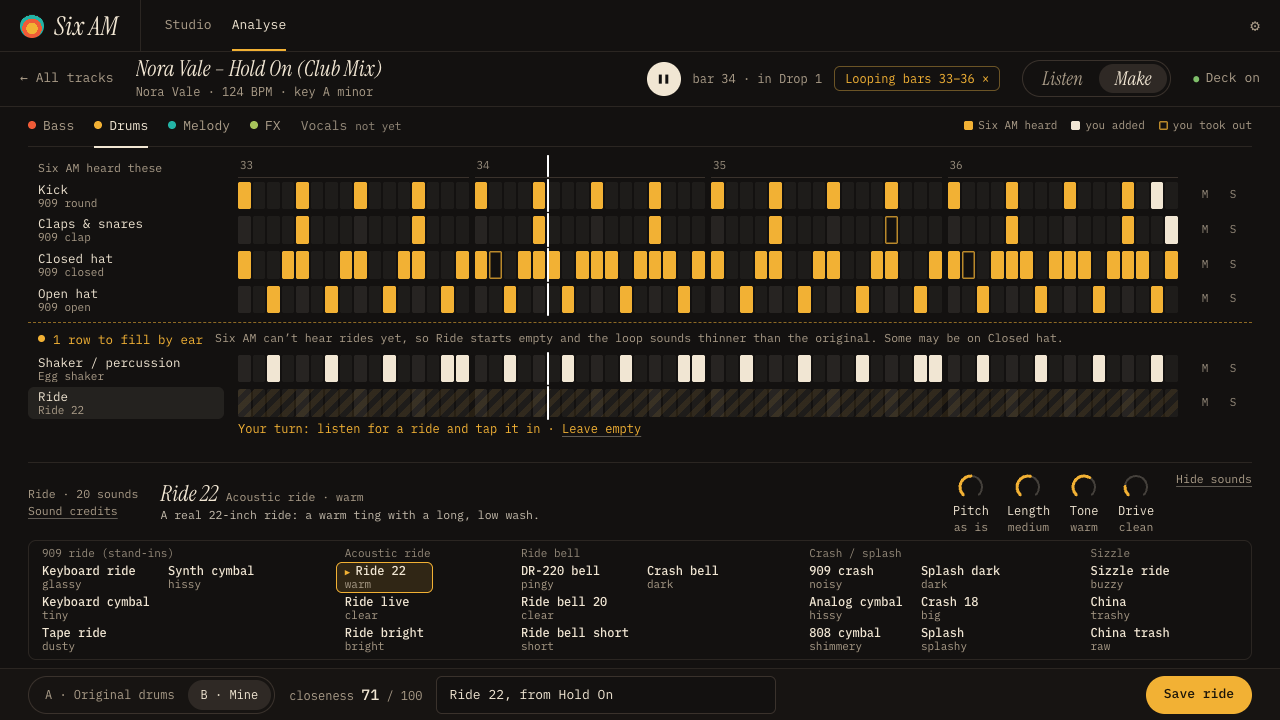
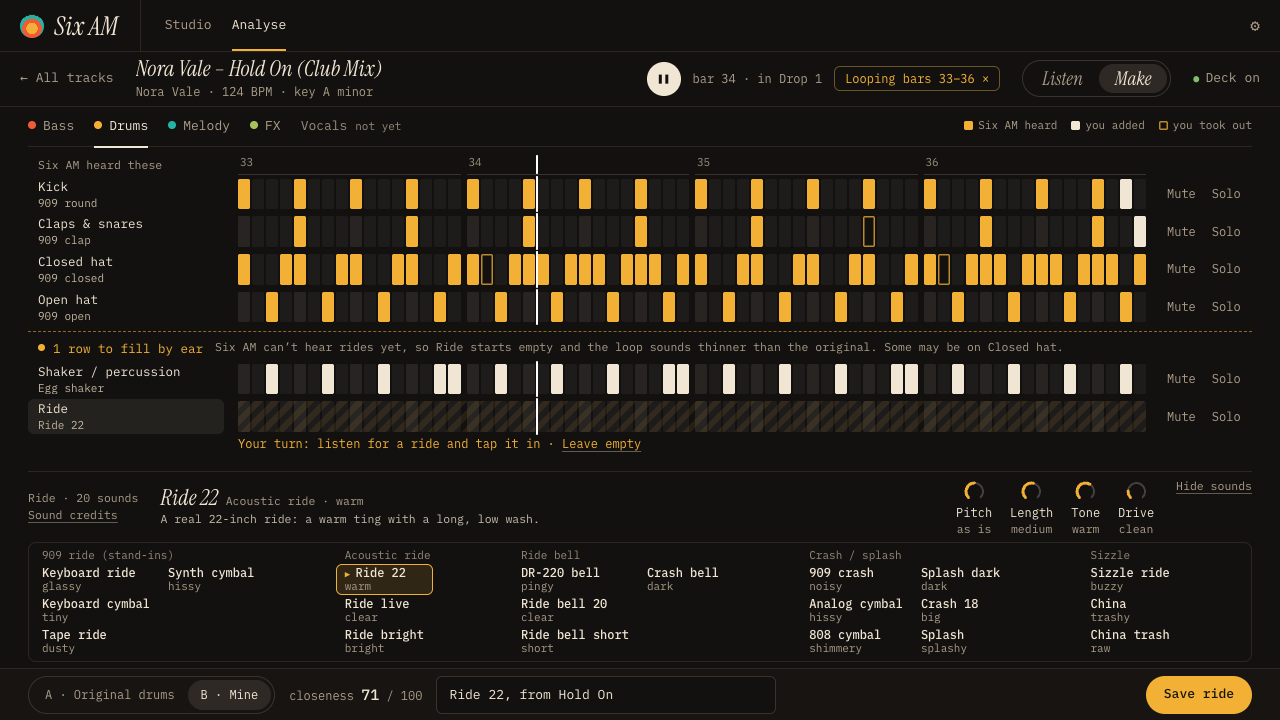
07 Six AM Phase 7: design round 3b, the critic's six gaps on the final direction

diff --git a/docs/products/07-six-am/design/p7-final/prototype.html b/docs/products/07-six-am/design/p7-final/prototype.html
@@ -68,11 +68,11 @@ button:focus-visible, input:focus-visible, a:focus-visible { outline: 2px solid 
 .knobs { display: flex; gap: 18px; align-items: flex-start; flex: none; }
 .knob { display: grid; justify-items: center; gap: 1px; } .knob span { font-size: 12px; } .knob small { color: var(--mute); font-size: 11.5px; }
 /* drum rows: one grid, row names once on the left */
-.rows { display: grid; grid-template-columns: 196px minmax(0,1fr) 60px; column-gap: 14px; row-gap: 6px; padding-top: 10px; flex: none; }
+.rows { display: grid; grid-template-columns: 196px minmax(0,1fr) 92px; column-gap: 14px; row-gap: 6px; padding-top: 10px; flex: none; }
 .rows.fill { flex: 1; row-gap: 10px; padding-bottom: 12px; }
-.rname { grid-column: 1; display: flex; flex-direction: column; min-width: 0; padding: 4px 10px; border-radius: 6px; align-self: center; text-align: left; }
+.rname { grid-column: 1; display: flex; flex-direction: column; gap: 3px; min-width: 0; padding: 4px 10px; border-radius: 6px; align-self: center; text-align: left; }
 .rname span { line-height: 1.3; white-space: nowrap; overflow: hidden; text-overflow: ellipsis; }
-.rname small { color: var(--mute); font-size: 11.5px; line-height: 1.3; white-space: nowrap; overflow: hidden; text-overflow: ellipsis; }
+.rname small { color: #c2b49e; font-size: 11.5px; line-height: 1.3; white-space: nowrap; overflow: hidden; text-overflow: ellipsis; }
 .rname[aria-pressed="true"] { background: rgba(241,230,211,.08); }
 @media (hover:hover) and (pointer:fine) { .rname[aria-pressed="false"]:hover { background: rgba(241,230,211,.04); } }
 .ms { grid-column: 3; display: flex; gap: 2px; align-self: center; }
@@ -97,7 +97,7 @@ button:focus-visible, input:focus-visible, a:focus-visible { outline: 2px solid 
 .ph { position: absolute; top: -3px; bottom: -3px; width: 2px; background: #fff; pointer-events: none; border-radius: 1px; }
 .legend { display: flex; gap: 14px; font-size: 11px; color: var(--mute); white-space: nowrap; }
 .legend i { display: inline-block; width: 9px; height: 9px; border-radius: 2px; margin-right: 5px; vertical-align: -1px; }
-.mbtn { width: 26px; height: 24px; border-radius: 4px; color: var(--dim); font-size: 11px; display: grid; place-items: center; border: 1px solid transparent; flex: none; }
+.mbtn { height: 24px; padding: 0 6px; border-radius: 4px; color: var(--mute); font-size: 12px; display: grid; place-items: center; border: 1px solid transparent; flex: none; }
 .mbtn[aria-pressed="true"] { background: #3a322c; color: var(--ink); }
 @media (hover:hover) and (pointer:fine) { .mbtn:hover { border-color: var(--line2); color: var(--ink); } }
 .hatch { background-image: repeating-linear-gradient(135deg, rgba(242,177,52,.09) 0 6px, transparent 6px 12px); border-radius: 3px; }
@@ -125,12 +125,15 @@ button:focus-visible, input:focus-visible, a:focus-visible { outline: 2px solid 
 .mo button { padding: 0 14px; height: 30px; border-radius: 999px; color: var(--mute); white-space: nowrap; }
 .mo button[aria-pressed="true"] { background: var(--ink); color: var(--bg); }
 .mo button[aria-disabled="true"] { color: var(--dim); opacity: .45; cursor: not-allowed; text-decoration: line-through; text-decoration-color: rgba(149,138,122,.7); }
-.strip { display: flex; gap: 24px; align-items: baseline; justify-content: space-between; padding: 9px 20px; border-bottom: 1px solid var(--line); background: var(--panel); font-size: 12.5px; color: var(--mute); min-width: 0; }
+.strip { display: flex; gap: 24px; align-items: center; justify-content: space-between; height: 36px; padding: 0 20px; white-space: nowrap; overflow: hidden; border-bottom: 1px solid var(--line); background: var(--panel); font-size: 12.5px; color: var(--mute); min-width: 0; }
+.strip.none { background: none; border-bottom-color: transparent; }
+.strip > span { overflow: hidden; text-overflow: ellipsis; min-width: 0; }
 .strip b { color: var(--ink); font-weight: 500; }
 .strip .warn { color: var(--gold); margin-left: auto; text-align: right; }
 .strip .warn button { text-decoration: underline; text-underline-offset: 3px; color: var(--ink); }
 .body { display: grid; min-height: 0; }
-.arr { padding: 0 24px 14px 0; min-width: 0; min-height: 0; display: flex; }
+.arr { padding: 0 24px 14px 0; min-width: 0; min-height: 0; display: flex; overflow-x: auto; overflow-y: hidden; overscroll-behavior-x: contain; }
+.stick { position: sticky; left: 0; z-index: 4; background: var(--bg); }
 .arrin { position: relative; flex: 1; display: grid; grid-template-rows: auto minmax(0,1fr); min-width: 0; }
 .ahead { display: grid; grid-template-columns: var(--lw) minmax(0,1fr); border-bottom: 1px solid var(--line2); }
 .tl { position: relative; min-width: 0; }
@@ -140,22 +143,22 @@ button:focus-visible, input:focus-visible, a:focus-visible { outline: 2px solid 
 .sn { font-size: 15px; white-space: nowrap; overflow: hidden; text-overflow: ellipsis; min-width: 0; }
 .lanes { display: grid; min-height: 0; }
 .lane { display: grid; grid-template-columns: var(--lw) minmax(0,1fr); border-bottom: 1px solid var(--line); min-height: 0; }
-.lname { display: flex; align-items: center; gap: 8px; padding: 0 10px 0 20px; font-size: 14px; position: relative; }
+.lname { display: flex; align-items: center; gap: 8px; padding: 0 10px 0 20px; font-size: 14px; position: sticky; left: 0; z-index: 4; background: var(--bg); }
 .lname::before { content: ""; position: absolute; left: 0; top: 7px; bottom: 7px; width: 3px; border-radius: 0 2px 2px 0; background: var(--c); }
 .secline { position: absolute; top: 0; bottom: 0; border-left: 1px solid var(--line); }
 .slot { position: absolute; top: 6px; bottom: 6px; border-radius: 5px; display: flex; align-items: center; padding: 0 9px; min-width: 0; overflow: hidden; font-size: 13px; white-space: nowrap; background: var(--bg); }
 .slot.h { border: 1px dashed var(--goldLine); color: var(--gold); background: #1e1912; }
-.slot.l, .slot.v, .slot.n { border: 1px dashed rgba(241,230,211,.13); color: var(--dim); }
-.slot.e { border: 1px dashed transparent; color: var(--dim); }
+.slot.l, .slot.v { border: 1px dashed rgba(241,230,211,.13); color: var(--dim); }
+.slot.e, .slot.n { border: 1px dashed transparent; color: var(--dim); background: transparent; }
 .slot.f { color: var(--ink); }
 .slot[aria-expanded="true"] { box-shadow: 0 0 0 2px var(--ink); }
-.slot.e .plus { visibility: hidden; }
-@media (hover:hover) and (pointer:fine) { .slot.e:hover { border-color: rgba(241,230,211,.18); } .slot.e:hover .plus { visibility: visible; } .slot.h:hover, .slot.n:hover, .slot.l:hover { filter: brightness(1.25); } }
-.slot.e:focus-visible .plus, .slot.e[aria-expanded="true"] .plus { visibility: visible; }
+.slot .plus { visibility: hidden; }
+@media (hover:hover) and (pointer:fine) { .slot.e:hover, .slot.n:hover { border-color: rgba(241,230,211,.22); } .slot.e:hover .plus, .slot.n:hover .plus { visibility: visible; } .slot.h:hover, .slot.l:hover { filter: brightness(1.25); } }
+.slot.e:focus-visible, .slot.n:focus-visible { border-color: rgba(241,230,211,.22); }
+.slot.e:focus-visible .plus, .slot.n:focus-visible .plus, .slot[aria-expanded="true"] .plus { visibility: visible; }
 /* labels sit above the playhead, on their slot's own colour, so the line never runs through words */
-.tx { position: relative; z-index: 3; background: inherit; padding: 0 4px; margin-left: -4px; border-radius: 3px; overflow: hidden; text-overflow: ellipsis; max-width: 100%; }
-.sech .tx { background: var(--bg); }
-.ph3 { position: absolute; top: 0; bottom: 0; width: 2px; margin-left: -1px; background: #fff; pointer-events: none; z-index: 2; border-radius: 1px; }
+.tx { position: relative; z-index: 3; overflow: hidden; text-overflow: ellipsis; max-width: 100%; }
+.ph3 { position: absolute; top: 0; bottom: 0; width: 2px; margin-left: -1px; background: rgba(255,255,255,.5); pointer-events: none; z-index: 2; border-radius: 1px; }
 .side { border-left: 1px solid var(--line); background: var(--panel); min-height: 0; overflow: auto; padding: 18px; display: flex; flex-direction: column; gap: 10px; }
 .lib { display: flex; flex-direction: column; gap: 6px; }
 .part { display: flex; align-items: center; gap: 10px; padding: 9px 11px; border-radius: 6px; border: 1px solid var(--line); text-align: left; min-width: 0; }
@@ -170,7 +173,7 @@ button:focus-visible, input:focus-visible, a:focus-visible { outline: 2px solid 
 .moments button { padding: 6px 11px; border-radius: 999px; color: rgba(255,255,255,.55); }
 .moments button[data-active] { background: rgba(255,255,255,.12); color: #fff; }
 body.shot .moments { display: none; }
-@media (max-height: 800px) { .snd b { font-size: 12px; line-height: 1.2; } .snd small { font-size: 11px; line-height: 1.15; } .snd { padding: 1px 8px !important; } .knob span, .knob small { line-height: 1.2; } .grow { min-height: 2px; } .divide { padding-top: 6px; } .grp h3 { padding-bottom: 2px; } .rname span { font-size: 12.5px; line-height: 1.2; } .rname small { font-size: 11px; line-height: 1.15; } .rows { row-gap: 3px !important; } .groups { padding: 4px; } .rows.fill { row-gap: 8px !important; } .foot { height: 52px; } .head { padding: 5px 20px; } .title h1 { font-size: 22px; } .fam { height: 40px; } .snd { padding: 2px 8px; } .shelf { padding: 8px 0; } .shelfhead { margin-bottom: 6px; } .rows { padding-top: 8px; row-gap: 4px; } .rows.fill { row-gap: 8px; } .rname { padding: 2px 10px; } }
+@media (max-height: 800px) { .snd b { font-size: 12px; line-height: 1.2; } .snd small { font-size: 11px; line-height: 1.15; } .snd { padding: 1px 8px !important; } .knob span, .knob small { line-height: 1.2; } .grow { min-height: 0; } .ruler .cells, .ruler .rb button { height: 19px; } .divide { padding-top: 6px; } .grp h3 { padding-bottom: 2px; } .rname span { font-size: 12.5px; line-height: 1.2; } .rname small { font-size: 11px; line-height: 1.15; } .rows { row-gap: 3px !important; } .groups { padding: 4px; } .rows.fill { row-gap: 8px !important; } .foot { height: 52px; } .head { padding: 5px 20px; } .title h1 { font-size: 22px; } .fam { height: 40px; } .snd { padding: 2px 8px; } .shelf { padding: 6px 0; } .shelfhead { margin-bottom: 6px; } .rows { padding-top: 8px; row-gap: 4px; } .rows.fill { row-gap: 8px; } .rname { padding: 2px 10px; } }
 </style></head>
 <body>
 <div id="stage"></div>
@@ -399,7 +402,7 @@ const esc = (s) => String(s).replace(/&/g, "&amp;").replace(/</g, "&lt;").replac
 const plural = (n, one, many) => `${n} ${n === 1 ? one : many}`;
 const KW = { pitch: (v) => (v < .35 ? "low" : v > .65 ? "high" : "as is"), length: (v) => (v < .35 ? "short" : v > .65 ? "long" : "medium"), tone: (v) => (v < .35 ? "dark" : v > .65 ? "bright" : "warm"), drive: (v) => (v < .35 ? "clean" : v > .65 ? "dirty" : "warm") };
 function knob(id, v, size) {
-  if (tight()) size = Math.round(size * 0.76);
+  if (tight()) size = Math.round(size * 0.64);
   const name = cap1(id), word = KW[id](v), a0 = -135, a = a0 + 270 * v, r = size / 2 - 5, c = size / 2;
   const pt = (d) => [c + r * Math.sin(d * Math.PI / 180), c - r * Math.cos(d * Math.PI / 180)];
   const [x0, y0] = pt(a0), [x1, y1] = pt(a), [xe, ye] = pt(135);
@@ -426,7 +429,7 @@ function steps(id, h) {
 const ruler = () => `<div class="ruler" title="Click a spot to play from there"><div class="cells">${[0, 1, 2, 3].map((b) => `<div class="rb">${Array.from({ length: 16 }, (_, k) => `<button data-act="jump" data-i="${b * 16 + k}" aria-label="Play from bar ${LOOP.from + b}${k ? `, step ${k + 1}` : ""}">${k ? "" : LOOP.from + b}</button>`).join("")}</div>`).join("")}</div>${phLine()}</div>`;
 const legend = () => `<div class="legend" aria-label="What the hits mean"><span><i style="background:var(--drums)"></i>Six AM heard</span><span><i style="background:var(--ink)"></i>you added</span><span><i style="box-shadow:inset 0 0 0 1.5px rgba(242,177,52,.75)"></i>you took out</span></div>`;
 const yourTurn = (r) => `Your turn: listen for ${r.listen} and tap it in`;
-const ms = (id) => `<span class="ms"><button class="mbtn" data-act="mute" data-row="${id}" aria-pressed="${!!S.mute[id]}" aria-label="Mute ${ROWOF[id].name}" title="Mute">M</button><button class="mbtn" data-act="solo" data-row="${id}" aria-pressed="${!!S.solo[id]}" aria-label="Solo ${ROWOF[id].name}" title="Solo">S</button></span>`;
+const ms = (id) => `<span class="ms"><button class="mbtn" data-act="mute" data-row="${id}" aria-pressed="${!!S.mute[id]}" aria-label="Mute ${ROWOF[id].name}" title="Mute this row">Mute</button><button class="mbtn" data-act="solo" data-row="${id}" aria-pressed="${!!S.solo[id]}" aria-label="Solo ${ROWOF[id].name}" title="Hear only this row">Solo</button></span>`;
 // why the rows below the line start empty, in the words of the row(s) still open (R3b, L273b)
 function why(o) {
   if (!o.length) return "Yours, by ear.";
@@ -491,10 +494,18 @@ const make = () => `<div class="app"><header class="bar">${logo()}<nav class="na
   <section class="col">${famTabs()}${rows()}${S.shelf ? `<div class="grow"></div>${shelf()}` : shelfLine()}${foot()}</section></div>`;
 
 // ───────── Studio → Rebuild: lanes once on the left, the original's sections as columns, bar for bar ─────────
-const LW = () => (innerWidth < 1360 ? 146 : 156), SIDEW = () => (innerWidth < 1360 ? 276 : 300);
+const LW = () => (innerWidth < 1360 ? 170 : 180), SIDEW = () => (innerWidth < 1360 ? 276 : 300);
 const tlW = () => innerWidth - SIDEW() - LW() - 24;
-const secPx = (s) => ((s.b - s.a + 1) / BARS) * tlW();
-const fits = (txt, px, size = 13) => txt.length * size * 0.6 + 28 <= px;
+const MINW = 86; // a section is never narrower than a short name and its count
+function lay() {
+  const ppb = tlW() / BARS; let x = 0; const at = {};
+  for (const s of SECS) { const w = Math.max((s.b - s.a + 1) * ppb, MINW); at[s.n] = { x, w }; x += w; }
+  return { at, total: Math.max(x, tlW()) };
+}
+let LAY = null;
+const secPx = (s) => LAY.at[s.n].w;
+const barX = (bar) => { const s = secAt(bar), o = LAY.at[s.n]; return o.x + ((bar - s.a) / (s.b - s.a + 1)) * o.w; };
+const fits = (txt, px, size = 13, pad = 28) => txt.length * size * 0.6 + pad <= px;
 function studioBar() {
   return `<header class="stbar">${logo()}<nav class="nav"><a href="#" class="on" aria-current="page">Studio</a><a href="#">Analyse</a></nav>
   <span class="tname" title="${esc(TRACK.short)}, rebuilt">${esc(TRACK.short)}, rebuilt</span><span class="small">${TRACK.bpm} BPM · Am</span>
@@ -506,7 +517,7 @@ function strip() {
   const left = M === "e" ? `<span><b>The original’s ${SECS.length} sections, bar for bar.</b> Every slot starts empty: pick one, then a part you saved in Make. Gold “has kick” shows what the original has there.</span>` : "";
   const right = !S.deck ? `<span class="warn" role="status">Original is off: the Deck isn’t open. <button data-act="deck">Open the Deck</button> to hear the original from bar ${S.bar}.</span>`
     : S.mo === "orig" ? `<span class="warn mute" role="status" style="color:var(--mute)">Playing the original from bar ${S.bar}, in the Deck</span>` : "";
-  return left || right ? `<div class="strip">${left}${right}</div>` : "<div></div>";
+  return `<div class="strip ${left || right ? "" : "none"}">${left}${right}</div>`;
 }
 const partBtn = (p) => `<button class="part" data-act="${S.pop ? "fill" : "noop"}" data-part="${esc(p.name)}"><i style="background:${LANEOF[p.lane].c}"></i><div><b title="${esc(p.name)}">${esc(p.name)}</b><small>${LANEOF[p.lane].n} · ${plural(p.bars, "bar", "bars")}</small></div></button>`;
 function side() {
@@ -519,18 +530,24 @@ function side() {
   <div class="lib" style="margin-top:4px">${lane === "vocals" ? "" : parts.length ? parts.map(partBtn).join("") : `<p class="lbl" style="margin:0">No saved ${L.n.toLowerCase()} yet. Make one in Make, then save it.</p>`}</div>
   ${st === "h" ? `<button class="lbl link" data-act="leaveslot" style="align-self:flex-start">Leave empty</button>` : st === "l" ? `<span class="lbl">Left empty · <button class="link" data-act="unleaveslot">Undo</button></span>` : st === "f" ? `<button class="lbl link" data-act="clear" style="align-self:flex-start">Empty this slot</button>` : ""}`;
 }
-const slotText = (st, key, L) => st === "f" ? S.fill[key] : st === "h" ? `has ${L.n.toLowerCase()}` : st === "v" ? "has vocals" : st === "l" ? "left empty" : st === "n" ? "none here" : "";
+const slotText = (st, key, L) => st === "f" ? S.fill[key] : st === "h" ? `has ${L.n.toLowerCase()}` : st === "v" ? "has vocals · not yet" : st === "l" ? "left empty" : "";
+// shorter words for narrow slots: shorten before dropping text (a slot is never unlabelled)
+const slotShort = (st, L) => st === "h" ? [L.n.toLowerCase()] : st === "v" ? ["vocals · not yet", "not yet"] : st === "l" ? ["left"] : [];
 const fillBg = (L) => `background:color-mix(in srgb, ${L.c} 28%, #1a1715);box-shadow:inset 3px 0 ${L.c};`;
 function arrangement() {
-  const head = `<div class="ahead"><span></span><div class="tl" style="height:${tight() ? 50 : 56}px">${SECS.map((s) => { const n = toFill(s).length, px = secPx(s), range = `${s.a}–${s.b}`, roomy = s.n.length * 9 + range.length * 6.9 + 40 <= px, named = px >= 44;
-    return `<button class="sech" data-act="seek" data-bar="${s.a}" title="${esc(s.n)}, bars ${range}. Play from bar ${s.a}" style="left:${pct(s.a)}%;width:${pct(s.b + 1) - pct(s.a)}%"><span class="l1">${named ? `<span class="sn tx">${esc(s.n)}</span>` : "&nbsp;"}${roomy ? `<span class="lbl tx" style="flex:none;font-variant-numeric:tabular-nums">${range}</span>` : ""}</span>
+  LAY = lay();
+  const X = (s) => `left:${LAY.at[s.n].x.toFixed(1)}px;width:${LAY.at[s.n].w.toFixed(1)}px`;
+  const head = `<div class="ahead"><span class="stick"></span><div class="tl" style="height:${tight() ? 50 : 56}px">${SECS.map((s) => { const n = toFill(s).length, px = secPx(s), range = `${s.a}–${s.b}`, roomy = s.n.length * 9 + range.length * 6.9 + 40 <= px;
+    return `<button class="sech" data-act="seek" data-bar="${s.a}" title="${esc(s.n)}, bars ${range}. Play from bar ${s.a}" style="${X(s)}"><span class="l1"><span class="sn tx">${esc(s.n)}</span>${roomy ? `<span class="lbl tx" style="flex:none;font-variant-numeric:tabular-nums">${range}</span>` : ""}</span>
     <span class="lbl" style="white-space:nowrap"><span class="tx ${n ? "yours" : ""}">${n}${fits(`${n} to fill`, px, 11.5) ? " to fill" : ""}</span></span></button>`; }).join("")}</div></div>`;
-  const lanes = `<div class="lanes" style="grid-template-rows:repeat(${LANES.length}, minmax(${tight() ? 38 : 42}px, 1fr))">${LANES.map((l) => `<div class="lane"><div class="lname" style="--c:${l.c}"><span style="flex:1;white-space:nowrap">${l.n}</span><button class="mbtn" aria-pressed="false" aria-label="Mute ${l.n}" title="Mute">M</button></div>
-    <div class="tl">${SECS.map((s) => `<span class="secline" style="left:${pct(s.a)}%"></span>`).join("")}
-    ${SECS.map((s) => { const st = slotState(s, l.id), key = `${s.n}:${l.id}`, t = slotText(st, key, l), px = secPx(s) - 6, show = t && (st === "f" ? px >= 72 : fits(t, px));
-      return `<button class="slot ${st}" data-act="slot" data-key="${esc(key)}" aria-expanded="${S.pop === key}" aria-label="${esc(s.n)}, ${l.n}: ${esc(t || "empty, add a part")}" title="${esc(t || "Add a part")}" style="left:calc(${pct(s.a)}% + 3px);width:calc(${pct(s.b + 1) - pct(s.a)}% - 6px);${st === "f" ? fillBg(l) : ""}">${show ? `<span class="tx">${esc(t)}</span>` : st === "e" ? `<span class="plus" aria-hidden="true">+</span>` : ""}</button>`; }).join("")}</div></div>`).join("")}</div>`;
-  const ph = `<span class="ph3" style="left:calc(${LW()}px + (100% - ${LW()}px) * ${frac(S.bar).toFixed(4)})"></span>`;
-  return `<div class="arr"><div class="arrin" style="--lw:${LW()}px">${head}${lanes}${ph}</div></div>`;
+  const lanes = `<div class="lanes" style="grid-template-rows:repeat(${LANES.length}, minmax(${tight() ? 38 : 42}px, 1fr))">${LANES.map((l) => `<div class="lane"><div class="lname stick" style="--c:${l.c}"><span style="flex:1;white-space:nowrap">${l.n}</span><button class="mbtn" aria-pressed="false" aria-label="Mute ${l.n}" title="Mute this lane">Mute</button></div>
+    <div class="tl">${SECS.map((s) => `<span class="secline" style="left:${LAY.at[s.n].x}px"></span>`).join("")}
+    ${SECS.map((s) => { const st = slotState(s, l.id), key = `${s.n}:${l.id}`, t = slotText(st, key, l), px = secPx(s) - 6;
+      const short = slotShort(st, l), label = !t ? "" : st === "f" || fits(t, px, 13, 22) ? t : short.find((x) => fits(x, px, 13, 22)) || short[short.length - 1];
+      const o = LAY.at[s.n];
+      return `<button class="slot ${st}" data-act="slot" data-key="${esc(key)}" aria-expanded="${S.pop === key}" aria-label="${esc(s.n)}, ${l.n}: ${esc(t || "empty, add a part")}" title="${esc(t || "Add a part")}" style="left:${(o.x + 3).toFixed(1)}px;width:${(o.w - 6).toFixed(1)}px;${st === "f" ? fillBg(l) : ""}">${label ? `<span class="tx">${esc(label)}</span>` : `<span class="plus" aria-hidden="true">+</span>`}</button>`; }).join("")}</div></div>`).join("")}</div>`;
+  const ph = `<span class="ph3" style="left:${(LW() + barX(S.bar)).toFixed(1)}px"></span>`;
+  return `<div class="arr"><div class="arrin" style="--lw:${LW()}px;flex:none;width:${LW() + LAY.total}px">${head}${lanes}${ph}</div></div>`;
 }
 const studio = () => `<div class="app studio">${studioBar()}${strip()}<div class="body" style="grid-template-columns:minmax(0,1fr) ${SIDEW()}px">${arrangement()}<aside class="side" aria-label="${S.pop ? "Fill this slot" : "My saved parts"}">${side()}</aside></div></div>`;
 

diff --git a/docs/products/07-six-am/design/p7-final.html b/docs/products/07-six-am/design/p7-final.html
@@ -21,11 +21,11 @@ figcaption { font-size: 12px; color: #958a7a; padding-top: 4px; }
 </style></head>
 <body><main>
 <h1>Six AM · Rebuild the song, the final direction</h1>
-<p class="lede">Phase 7 design round 3 (decision 0028, L278): the owner’s hybrid. Shelf’s layout for Make → Drums with Side list’s highlighted row and the sound under each row name; Side list’s arrangement grid for Studio → Rebuild with Table’s wording. Same demo track as round 2 (Nora Vale, Hold On (Club Mix), 124 BPM, A minor, 96 bars) and the real kit (<code>kit-p7.ts</code>, 120 CC0 sounds). Each state at 1440 × 900 (click a picture), the 1280 × 720 version linked under it. Rough prototype: nothing plays, but taps work. All copy is draft for the owner to rewrite. Open <a href="p7-final/prototype.html">p7-final/prototype.html</a>: the buttons at the bottom switch the state; URL options <code>?m=1|2|r|3|e</code>, <code>&amp;deck=0</code>, <code>&amp;data=worst</code>, <code>&amp;credits=1</code>, <code>&amp;shot=1</code>.</p>
-<section><header><b>M</b><div><h2>Make → Drums</h2><p>Rows Six AM heard on top, each row name with its current sound under it and a filled highlight on the selected row. Shaker / percussion and Ride wait below a gold dashed line: “2 rows to fill by ear” and why, “…so the loop sounds thinner than the original”, and “Your turn: listen for a shaker and tap it in · Leave empty” under each empty row, never over its cells. The hit legend sits right-aligned on the Drums header line. Below, the shelf of 20 sounds, one group per family, every group name on one line and every feel word kept at 1280. Fixing by ear folds the shelf to one line and the rows grow into the room it leaves.</p></div></header>
+<p class="lede">Phase 7 design round 3 (decision 0028, L278): the owner’s hybrid, with round 3b’s fixes for the critic’s six gaps (rows say Mute / Solo, a solid playhead behind the labels, fewer kinds of empty, a reserved strip, sections with a minimum width). Shelf’s layout for Make → Drums with Side list’s highlighted row and the sound under each row name; Side list’s arrangement grid for Studio → Rebuild with Table’s wording. Same demo track as round 2 (Nora Vale, Hold On (Club Mix), 124 BPM, A minor, 96 bars) and the real kit (<code>kit-p7.ts</code>, 120 CC0 sounds). Each state at 1440 × 900 (click a picture), the 1280 × 720 version linked under it. Rough prototype: nothing plays, but taps work. All copy is draft for the owner to rewrite. Open <a href="p7-final/prototype.html">p7-final/prototype.html</a>: the buttons at the bottom switch the state; URL options <code>?m=1|2|r|3|e</code>, <code>&amp;deck=0</code>, <code>&amp;data=worst</code>, <code>&amp;credits=1</code>, <code>&amp;shot=1</code>.</p>
+<section><header><b>M</b><div><h2>Make → Drums</h2><p>Rows Six AM heard on top, each row name with its current sound under it and Mute / Solo written out and a filled highlight on the selected row. Shaker / percussion and Ride wait below a gold dashed line: “2 rows to fill by ear” and why, “…so the loop sounds thinner than the original”, and “Your turn: listen for a shaker and tap it in · Leave empty” under each empty row, never over its cells. The hit legend sits right-aligned on the Drums header line. Below, the shelf of 20 sounds, one group per family, every group name on one line and every feel word kept at 1280. Fixing by ear folds the shelf to one line and the rows grow into the room it leaves.</p></div></header>
 <div class="row"><figure><a href="p7-final/1-choose-1440.png"><img src="p7-final/1-choose-1440.png" alt="1 Choose a kick" loading="lazy" width="1440" height="900"></a><figcaption>1 Choose a kick · <a href="p7-final/1-choose-1280.png">1280 × 720</a></figcaption></figure><figure><a href="p7-final/2-fix-1440.png"><img src="p7-final/2-fix-1440.png" alt="2 Fix by ear (shaker tapped in, Ride still open)" loading="lazy" width="1440" height="900"></a><figcaption>2 Fix by ear (shaker tapped in, Ride still open) · <a href="p7-final/2-fix-1280.png">1280 × 720</a></figcaption></figure><figure><a href="p7-final/2-empty-row-1440.png"><img src="p7-final/2-empty-row-1440.png" alt="An empty row picked (Ride)" loading="lazy" width="1440" height="900"></a><figcaption>An empty row picked (Ride) · <a href="p7-final/2-empty-row-1280.png">1280 × 720</a></figcaption></figure></div></section>
-<section><header><b>S</b><div><h2>Studio → Rebuild</h2><p>Lane names once on the left, the original’s sections as columns sized by their bars, a playhead the labels sit clear of, and a right margin before the side panel. Each slot says what the original has: gold “has kick” where it has one, “none here” where Six AM measured none, nothing where Six AM can’t measure the lane (a “+” shows on hover or focus). One strip under the top bar explains the empty rebuild, and when the Deck is closed it says so under the Mine / Original switch, which stays where it is with Original struck through.</p></div></header>
+<section><header><b>S</b><div><h2>Studio → Rebuild</h2><p>Lane names once on the left, the original’s sections as columns sized by their bars, one solid playhead behind the labels, a right margin before the side panel, and Mute on each lane. A slot is one of four things: your part, gold “has kick” (the original has it, yours to fill), dim “has vocals · not yet”, or blank (a faint outline and “+” on hover or focus). A strip under the top bar always keeps its height: it explains the empty rebuild, and when the Deck is closed it says so under the Mine / Original switch, which stays where it is with Original struck through.</p></div></header>
 <div class="row"><figure><a href="p7-final/3-rebuild-1440.png"><img src="p7-final/3-rebuild-1440.png" alt="3 Rebuild (Drop 1 · Chords picked)" loading="lazy" width="1440" height="900"></a><figcaption>3 Rebuild (Drop 1 · Chords picked) · <a href="p7-final/3-rebuild-1280.png">1280 × 720</a></figcaption></figure><figure><a href="p7-final/3-empty-1440.png"><img src="p7-final/3-empty-1440.png" alt="Rebuild, nothing filled yet" loading="lazy" width="1440" height="900"></a><figcaption>Rebuild, nothing filled yet · <a href="p7-final/3-empty-1280.png">1280 × 720</a></figcaption></figure><figure><a href="p7-final/3-deck-closed-1440.png"><img src="p7-final/3-deck-closed-1440.png" alt="Deck closed" loading="lazy" width="1440" height="900"></a><figcaption>Deck closed · <a href="p7-final/3-deck-closed-1280.png">1280 × 720</a></figcaption></figure></div></section>
-<section><header><b>W</b><div><h2>Worst case at 1280 × 720</h2><p>Long artist and title, long part names, 8 sections with a 4-bar Fill and “Breakdown (with the vocal)”. Narrow sections drop words and keep their marks; the full text is in each slot’s tooltip.</p></div></header>
+<section><header><b>W</b><div><h2>Worst case at 1280 × 720</h2><p>Long artist and title, long part names, 8 sections with a 4-bar Fill and “Breakdown (with the vocal)”. Every section is at least wide enough for a short name and its count, and the grid scrolls sideways when the song needs more room (lane names stay put). Narrow slots shorten (“has chords” → “chords”, “has vocals · not yet” → “not yet”) and never go unlabelled; the full text is in each tooltip.</p></div></header>
 <div class="row"><figure><a href="p7-final/1-choose-worst-1280.png"><img src="p7-final/1-choose-worst-1280.png" alt="Make, choose" loading="lazy" width="1280" height="720"></a><figcaption>Make, choose</figcaption></figure><figure><a href="p7-final/2-fix-worst-1280.png"><img src="p7-final/2-fix-worst-1280.png" alt="Make, fix by ear" loading="lazy" width="1280" height="720"></a><figcaption>Make, fix by ear</figcaption></figure><figure><a href="p7-final/3-rebuild-worst-1280.png"><img src="p7-final/3-rebuild-worst-1280.png" alt="Studio, rebuild" loading="lazy" width="1280" height="720"></a><figcaption>Studio, rebuild</figcaption></figure></div></section>
 </main></body></html>
